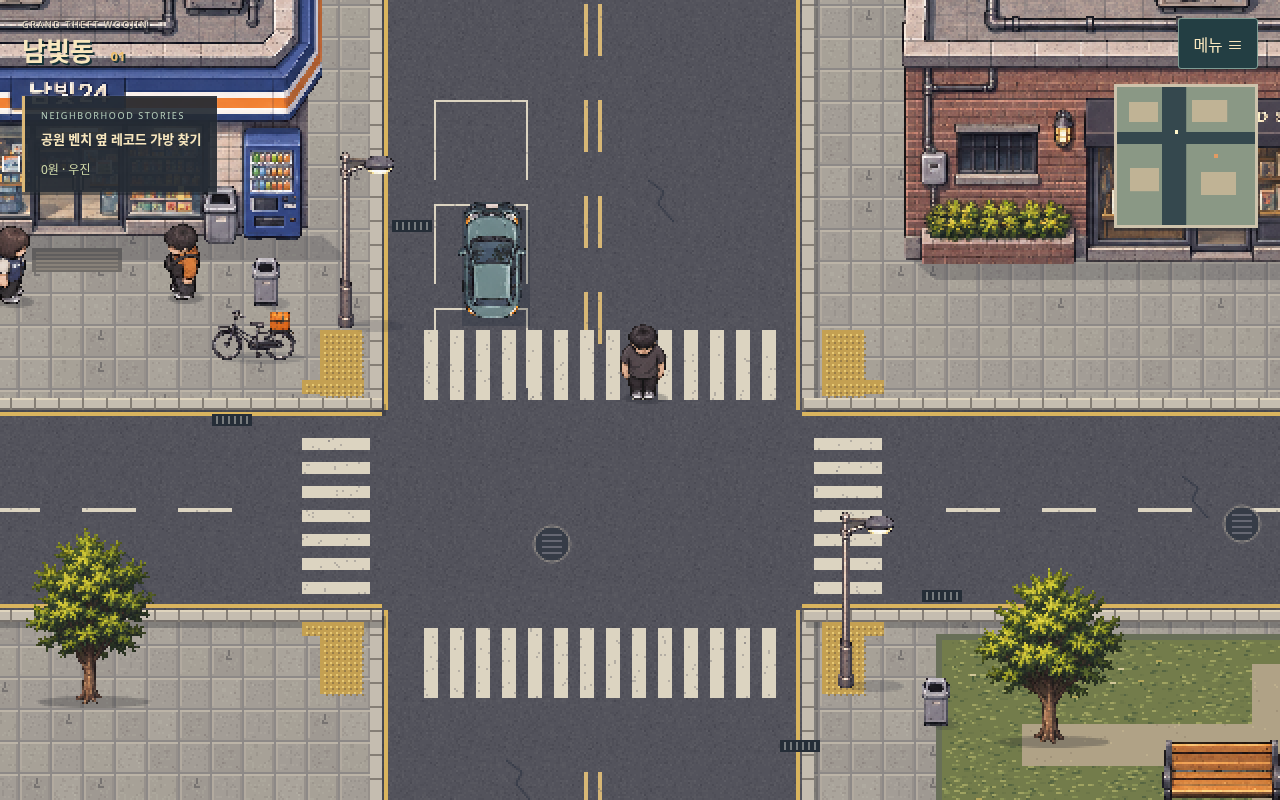
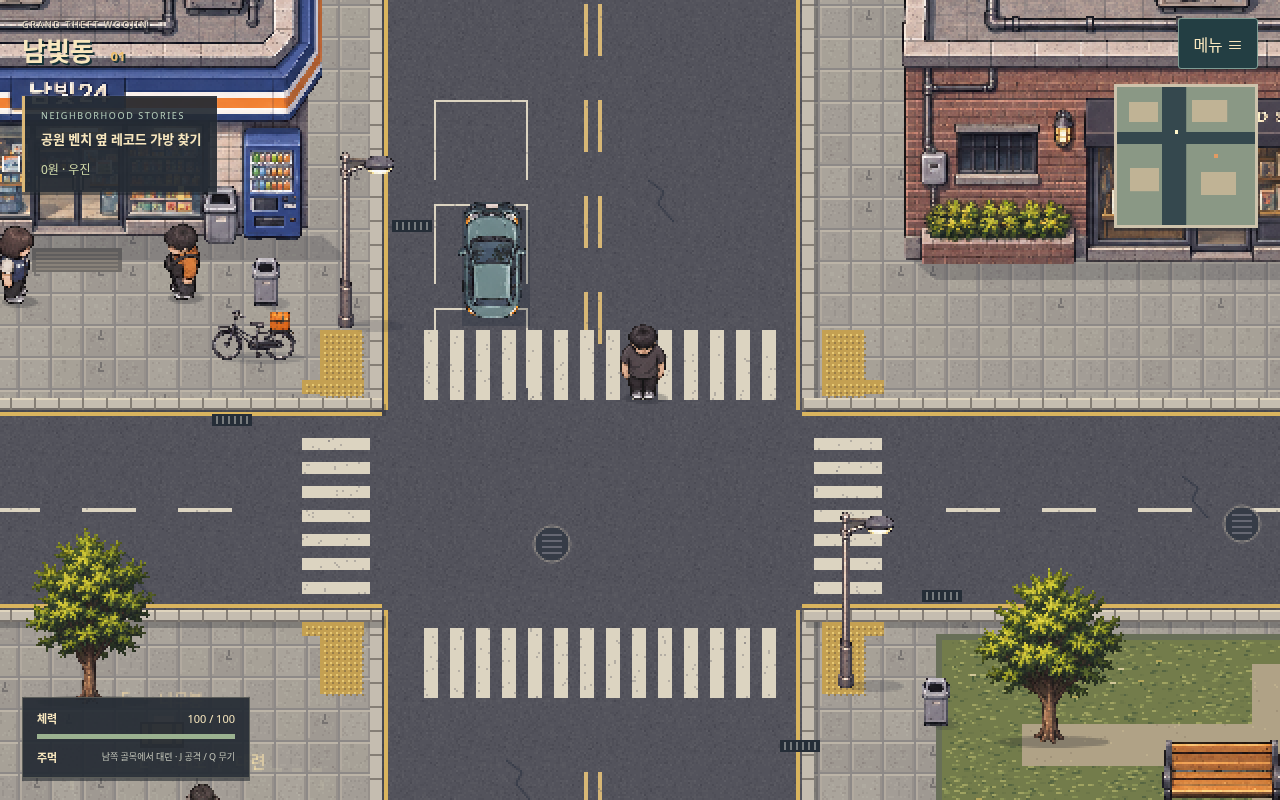
Verify combat checkpoint across hub and polish mobile weapon hint

Changed region(s): [[0.0, 0.8438, 0.2188, 1.0], [0.0, 0.2812, 0.0312, 0.375]]

diff --git a/dist/city-combat-view.js b/dist/city-combat-view.js
@@ -12,7 +12,7 @@ window.CityCombatView={create({player,combat,enemies,sound=()=>{}}){
   if(e.kind==='escape')show('대련 구역을 벗어났어. 태오에게 돌아가면 다시 시작할 수 있어.');
  }
  function update(dt){toastTime=Math.max(0,toastTime-dt);impact=Math.max(0,impact-dt);if(!toastTime)$('combatToast').textContent='';for(let i=effects.length-1;i>=0;i--){effects[i].t-=dt;if(effects[i].t<=0)effects.splice(i,1);}}
- function hud(){const hp=Math.ceil(player.fight.hp);$('healthText').textContent=hp+' / 100';$('healthFill').style.width=hp+'%';$('weaponName').textContent=combat.weapon==='club'?'나무봉':'주먹';$('weapon').textContent=combat.clubUnlocked?'무기 Q':'나무봉 찾기';$('combatHint').textContent=combat.engaged?'대련 중 · 공격 J / Space · 무기 Q':'남쪽 골목에서 대련 · J 공격 / Q 무기';}
+ function hud(){const hp=Math.ceil(player.fight.hp);$('healthText').textContent=hp+' / 100';$('healthFill').style.width=hp+'%';$('weaponName').textContent=combat.weapon==='club'?'나무봉':'주먹';$('weapon').textContent=combat.clubUnlocked?'무기 Q':'봉 찾기';$('combatHint').textContent=combat.engaged?'대련 중 · 공격 J / Space · 무기 Q':'남쪽 골목에서 대련 · J 공격 / Q 무기';}
  function playerPose(c){const f=player.fight;if(f.mode==='idle')return false;
   S.shadow(c,player.x,player.y,11);
   if(f.mode==='hurt'||f.mode==='down'){

diff --git a/docs/GTW-COMBAT-HANDOFF.md b/docs/GTW-COMBAT-HANDOFF.md
@@ -69,3 +69,20 @@ Original private deployment remains untouched until verified. No changes deploye
   payload; now seed it before game startup, rather than misreporting a save defect.
 - `docs/gtw-combat/{frames,desktop,mobile}.png` captured/opened. Visual polish and
   broader regression still needed. No deployment yet. Next priority NPC interactions.
+
+## Checkpoint publication requested by owner
+- Combat source checkpoint `58e2a36` was confirmed pushed to GitHub.
+- Re-ran combat unit/browser, city mission/save, graphics, and stability successfully.
+  Stability: actual Chromium two-finger move/run/release; 1000 simulated seconds.
+- Corrected mobile weapon hint length; test now locates run button dynamically after
+  new attack-button layout instead of touching old hard-coded coordinates.
+- NPC WIP is safely stashed (`WIP residents: generated sources, extraction alignment
+  failure, first red test`). Two generated 36/48-frame sources exist. Extraction
+  failed intentionally on guard frame 8 exceeding left margin: foot anchor used only
+  foremost shoe. Must fix centering using both planted foot regions, inspect output.
+  Resident behavior unit test is red because module is not yet implemented.
+- Do not publish NPC WIP as completed. Resume by `git stash apply stash@{0}` after
+  combat private deployment is recorded. No access or old save key changes.
+- Also passed existing browser.cjs (grow), merge.cjs, quality.cjs and
+  adventure-geometry.cjs (five geometries with enemies removed + persistent hub).
+  This is not a claim that the previously failing Woorio full combat bot passed.
